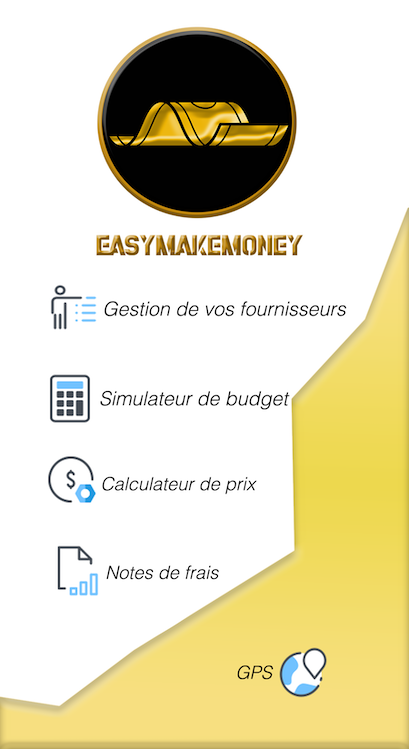
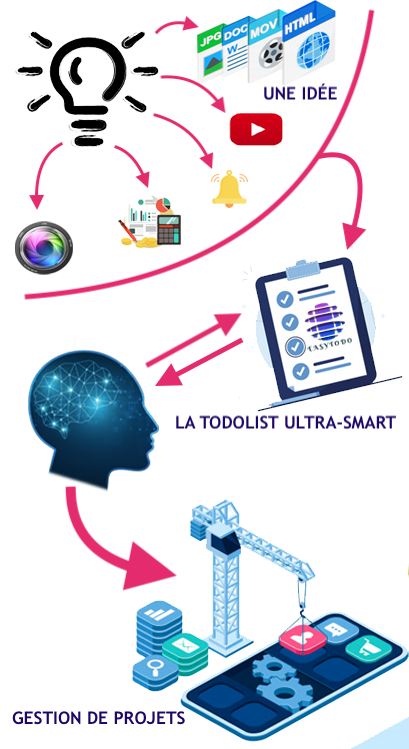
change imagepresentation

diff --git a/index.html b/index.html
@@ -240,6 +240,7 @@
 
         }
 
+
         ul.menu2002 li a:before {
             content: '';
             position: absolute;
@@ -269,6 +270,10 @@
         iframe#video1 {
             width: 600px;
             height: 500px;
+            border-radius: 5%;
+        }
+
+        img#image1 {
             border-radius: 5%;
         }
 
@@ -589,7 +594,7 @@
 
                             <div class="ei-banner-mbl-mockup wow fadeInRight" data-wow-delay="600ms"
                                 data-wow-duration="1500ms">
-                                <img src="presentetion.png" alt="">
+                                <img id="image1" src="presentetion.png" alt="">
                             </div>
 
                         </div>
@@ -903,7 +908,7 @@
                             <div class="pm-feature-item2">
                                 <div class="pm-section-title pm-headline">
                                     <span class="pm-title-tag">Fonctionnalité #1/span>
-                                    <h2>Faire les courses du mois</h2>
+                                        <h2>Faire les courses du mois</h2>
                                 </div>
                                 <div class="pm-feature-item-details">
                                     EASYTODO rendra cette tâche agréable et efficace.
@@ -1059,7 +1064,8 @@
                                             <i class="fa fa-floppy-o"></i>
                                         </div>
                                         <div class="pm-f-process-text">
-                                            Sauvegardez pour réutiliser les missions hebdomadaires ou mensuelles répétitives.
+                                            Sauvegardez pour réutiliser les missions hebdomadaires ou mensuelles
+                                            répétitives.
                                         </div>
                                     </div>
                                 </div>
@@ -1764,7 +1770,8 @@
                     <div class="col-md-4 wow fadeFromLeft" data-wow-delay="0ms" data-wow-duration="1500ms">
                         <div class="pm-testimonial-inner">
                             <div class="pm-testimonial-text">
-                                PLusieurs applications en une seule, je ne démarre pas un projet sans l'assistance d'EASYTODO
+                                PLusieurs applications en une seule, je ne démarre pas un projet sans l'assistance
+                                d'EASYTODO
                             </div>
                             <div class="pm-testimonial-author">
                                 <div class="pm-testimonial-img float-left">
@@ -1817,7 +1824,7 @@
                             <div class="pm-testimonial-text">
                                 Grace À EASYTODO je peux avoir une vision claire de mes PROJETS à court et
                                 moyen termes.
-                                
+
 
                             </div>
                             <div class="pm-testimonial-author">
